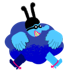
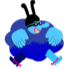
Adds meanies, sub sswitches directions.

diff --git a/lib/movingObject.js b/lib/movingObject.js
@@ -5,16 +5,22 @@
     this.pos = args["pos"];
     this.vel = args["vel"];
     this.radius = args["radius"];
-    // this.color = args["color"];
     this.game = args["game"];
     this.img = args["img"];
+    this.leftimg = args["leftimg"] || args["img"]
   };
 
   MovingObject.prototype.draw = function (ctx) {
-    // // ctx.fillStyle = this.color;
-    ctx.drawImage(this.img, this.pos[0], this.pos[1])
+    var img;
+    if (this.vel[0] >= 0) {
+      img = this.img;
+    } else {
+      img = this.leftimg;
+    }
+    debugger
+    ctx.drawImage(img, this.pos[0], this.pos[1])
     ctx.beginPath();
-
+    //
     // ctx.arc(
     //   this.pos[0],
     //   this.pos[1],
@@ -48,7 +54,7 @@
     var y2 = otherObject.pos[1];
 
     var dist = Math.sqrt(Math.pow((x1 - x2), 2) + Math.pow((y1 - y2), 2));
-    var radSum = this.radius + otherObject.radius;
+    var radSum = this.img.width/2 + otherObject.img.width/2;
 
     return dist < radSum;
   };

diff --git a/lib/bullet.js b/lib/bullet.js
@@ -6,7 +6,7 @@
     var vel = [0, 0]
 
     if (args["vel"][0] === 0 && args["vel"][1] === 0) {
-      vel = [0, -5];
+      vel = [5, 0];
     }
 
     if (args["vel"][1] < 0 ){
@@ -24,7 +24,7 @@
     window.Asteroids.MovingObject.call(this, { img: flower, color: Bullet.COLOR,
       radius: Bullet.RADIUS, vel: vel, game: args["game"]});
 
-    this.pos = args["pos"];
+    this.pos = [args["pos"][0] + 20, args["pos"][1] + 20];
   }
 
   window.Asteroids.Util.inherits(Bullet, window.Asteroids.MovingObject);

diff --git a/index.html b/index.html
@@ -28,10 +28,16 @@
 
       sub = new Image();
       sub.src = "imgs/submarine.png";
+      subleft = new Image();
+      subleft.src = "imgs/subleft.png";
+
       meanie = new Image();
       meanie.src = "imgs/meanie.png";
+      meanieleft = new Image();
+      meanieleft.src = "imgs/meanieleft.png";
+
       flower = new Image();
-      flower.src = "imgs/flower.png";
+      flower.src = "imgs/flower.png"
 
       gameView = new window.Asteroids.GameView(canvasEl);
       gameView.start();

diff --git a/lib/fish.js b/lib/fish.js
@@ -2,7 +2,7 @@
   window.Asteroids = window.Asteroids || {};
 
   var Fish = window.Asteroids.Fish = function (args) {
-    window.Asteroids.MovingObject.call(this, { img: meanie, color: Fish.COLOR,
+    window.Asteroids.MovingObject.call(this, { img: meanie, leftimg: meanieleft, color: Fish.COLOR,
       radius: Fish.RADIUS,
       vel: window.Asteroids.Util.randomVec(), game: args["game"]});
     this.pos = args["pos"];

diff --git a/lib/game.js b/lib/game.js
@@ -39,16 +39,17 @@
   };
 
   Game.prototype.wrap = function(pos) {
+    // TODO: x here is actually y in canvas...
     var x = pos[0];
     var y = pos[1];
 
-    if (x <= 0) {
+    if (x <= -50) {
       x += Game.DIM_X
     } else if (x >= Game.DIM_X) {
       x -= Game.DIM_X
     };
 
-    if (y <= 0) {
+    if (y <= -50) {
       y += Game.DIM_Y
     } else if (y >= Game.DIM_Y) {
       y -= Game.DIM_Y

diff --git a/lib/ship.js b/lib/ship.js
@@ -2,7 +2,7 @@
   window.Asteroids = window.Asteroids || {};
 
   var Ship = window.Asteroids.Ship = function (args) {
-    window.Asteroids.MovingObject.call(this, { img: sub, color: Ship.COLOR,
+    window.Asteroids.MovingObject.call(this, { img: sub, leftimg: subleft, color: Ship.COLOR,
       radius: Ship.RADIUS, game: args["game"]});
     this.vel = [0,0];
     this.pos = args["pos"];

diff --git a/lib/utils.js b/lib/utils.js
@@ -10,8 +10,14 @@
   };
 
   Util.randomVec = function (length) {
-    var x = Math.floor(Math.random() * 5);
-    var y = Math.floor(Math.random() * 5);
-    return [x, y];
+    var x = Math.floor(Math.random() * 6) - 3;
+    var y = Math.floor(Math.random() * 6) - 3;
+    
+    if (x === 0 && y === 0) {
+      return [-1, -1];
+    } else {
+      return [x, y];
+    }
+
   };
 })();
